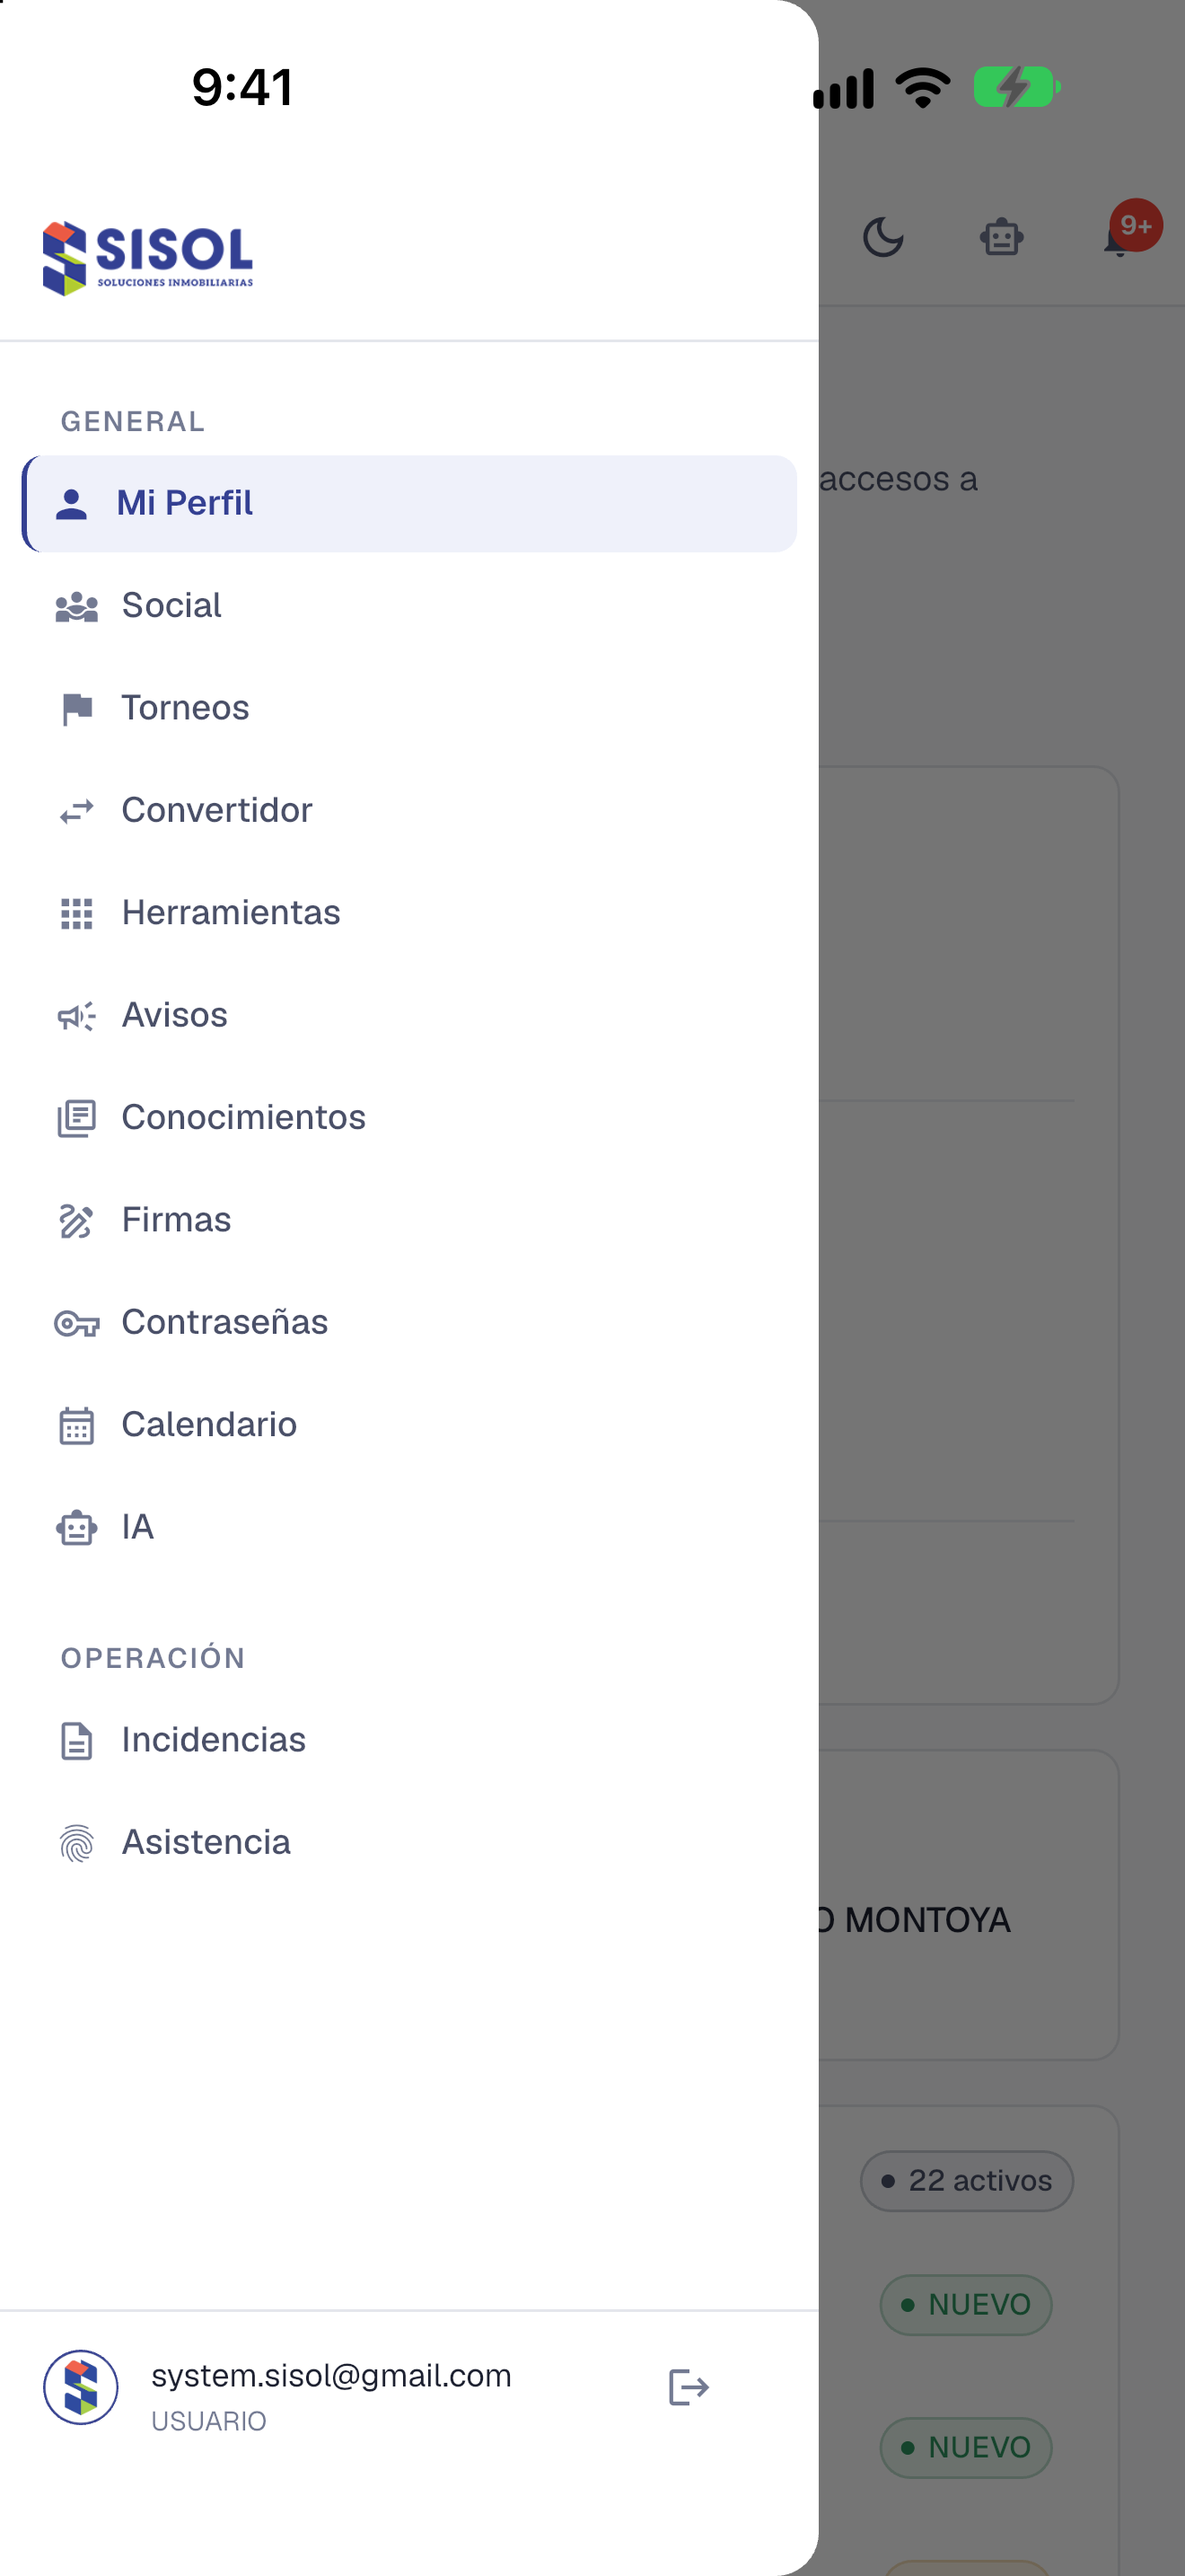
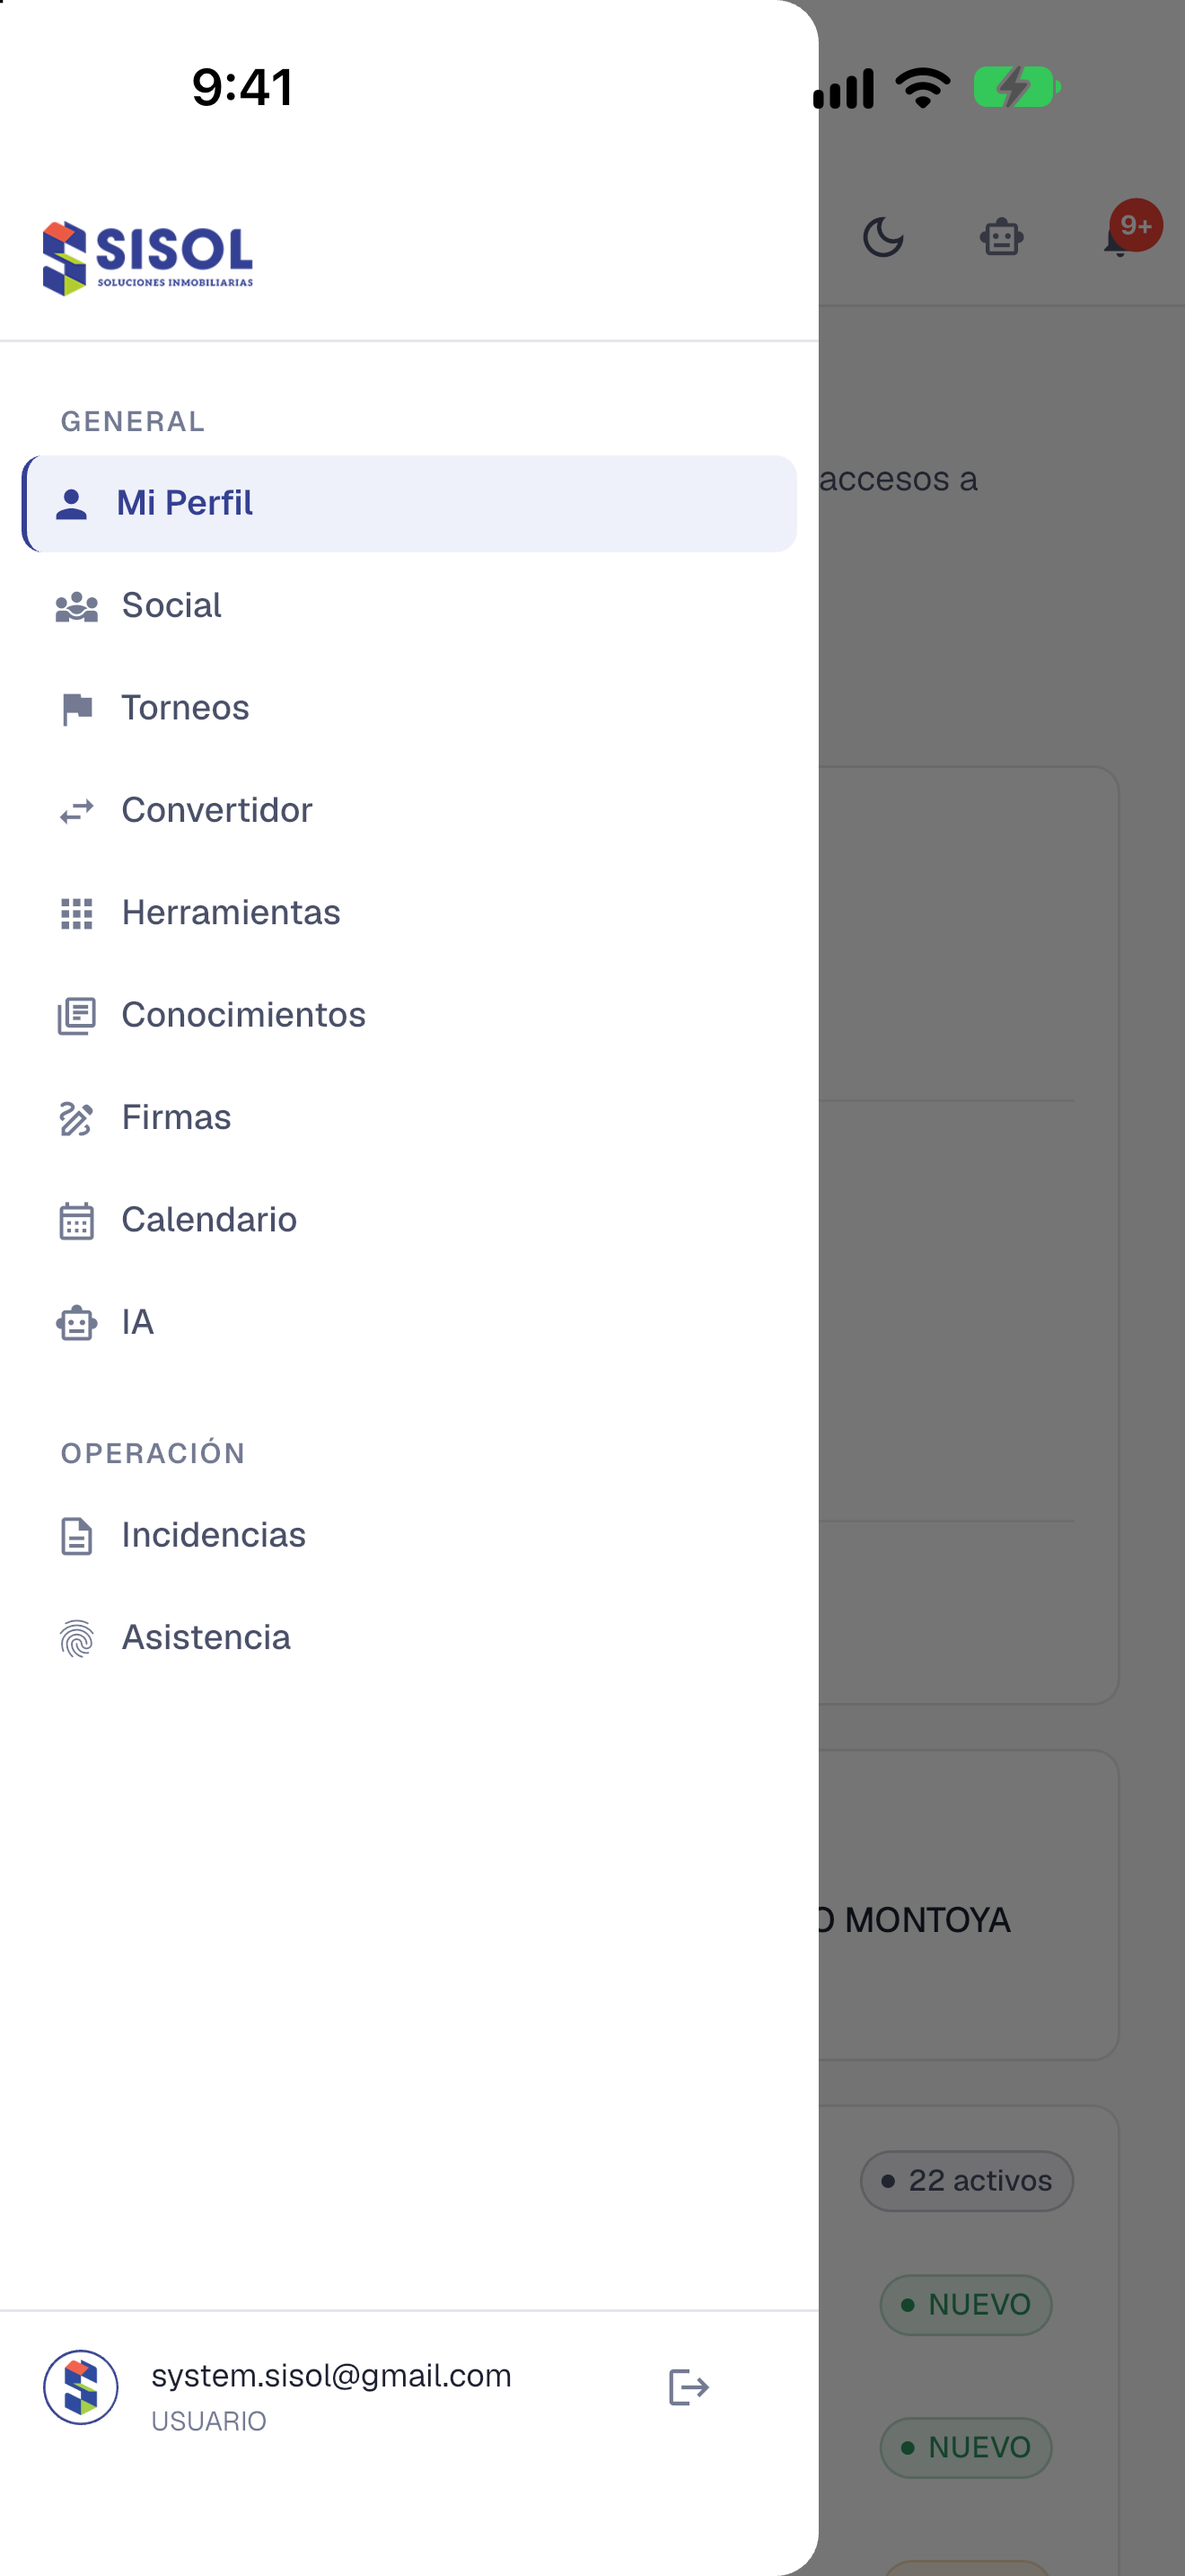
docs(app-store): capturas sin Avisos ni Contraseñas (la cuenta de prueba ya no los tiene)

Changed region(s): [[0.0311, 0.4655, 0.2795, 0.6827], [0.0311, 0.3724, 0.3106, 0.4344], [0.1242, 0.7137, 0.1553, 0.7448]]

diff --git a/docs/app-store/ficha.md b/docs/app-store/ficha.md
@@ -27,8 +27,8 @@ la categoría, la clasificación por edad y los datos de contacto se cargaron co
 | URL de marketing | https://sistemassi.com |
 | Copyright | 2026 SI SOL Inmobiliarias, S.A. de C.V. |
 | Compilación | 2.4.5 (7) |
-| Capturas iPhone 6.9" (1320 × 2868) | `capturas/iphone/`: menú, calendario, incidencias, avisos |
-| Capturas iPad 13" (2064 × 2752) | `capturas/ipad/`: calendario, incidencias, avisos |
+| Capturas iPhone 6.9" (1320 × 2868) | `capturas/iphone/`: menú, calendario, incidencias |
+| Capturas iPad 13" (2064 × 2752) | `capturas/ipad/`: calendario, incidencias |
 
 Las capturas se tomaron en el simulador con la cuenta de prueba, sin nombres de otros colaboradores
 ni números de serie (por eso no van «Mi Perfil» ni el panel del día con organizador). El checador no
@@ -92,3 +92,9 @@ Apple suele rechazar en la tienda pública las apps que solo sirven a los emplea
 (guía 3.2). Si la rechaza por eso, las salidas son: **distribución no listada** (la app no sale en
 búsquedas y se instala con un enlace; se pide con un formulario a Apple) o **apps personalizadas**
 por Apple Business Manager.
+
+## Cuenta de prueba
+
+El 08/10/2026 se le quitaron a `system.sisol@gmail.com` los permisos `show_avisos` y
+`show_passwords` (podía crear y borrar avisos reales y entrar a la bóveda). Por eso las capturas ya no
+muestran Avisos ni Contraseñas.
